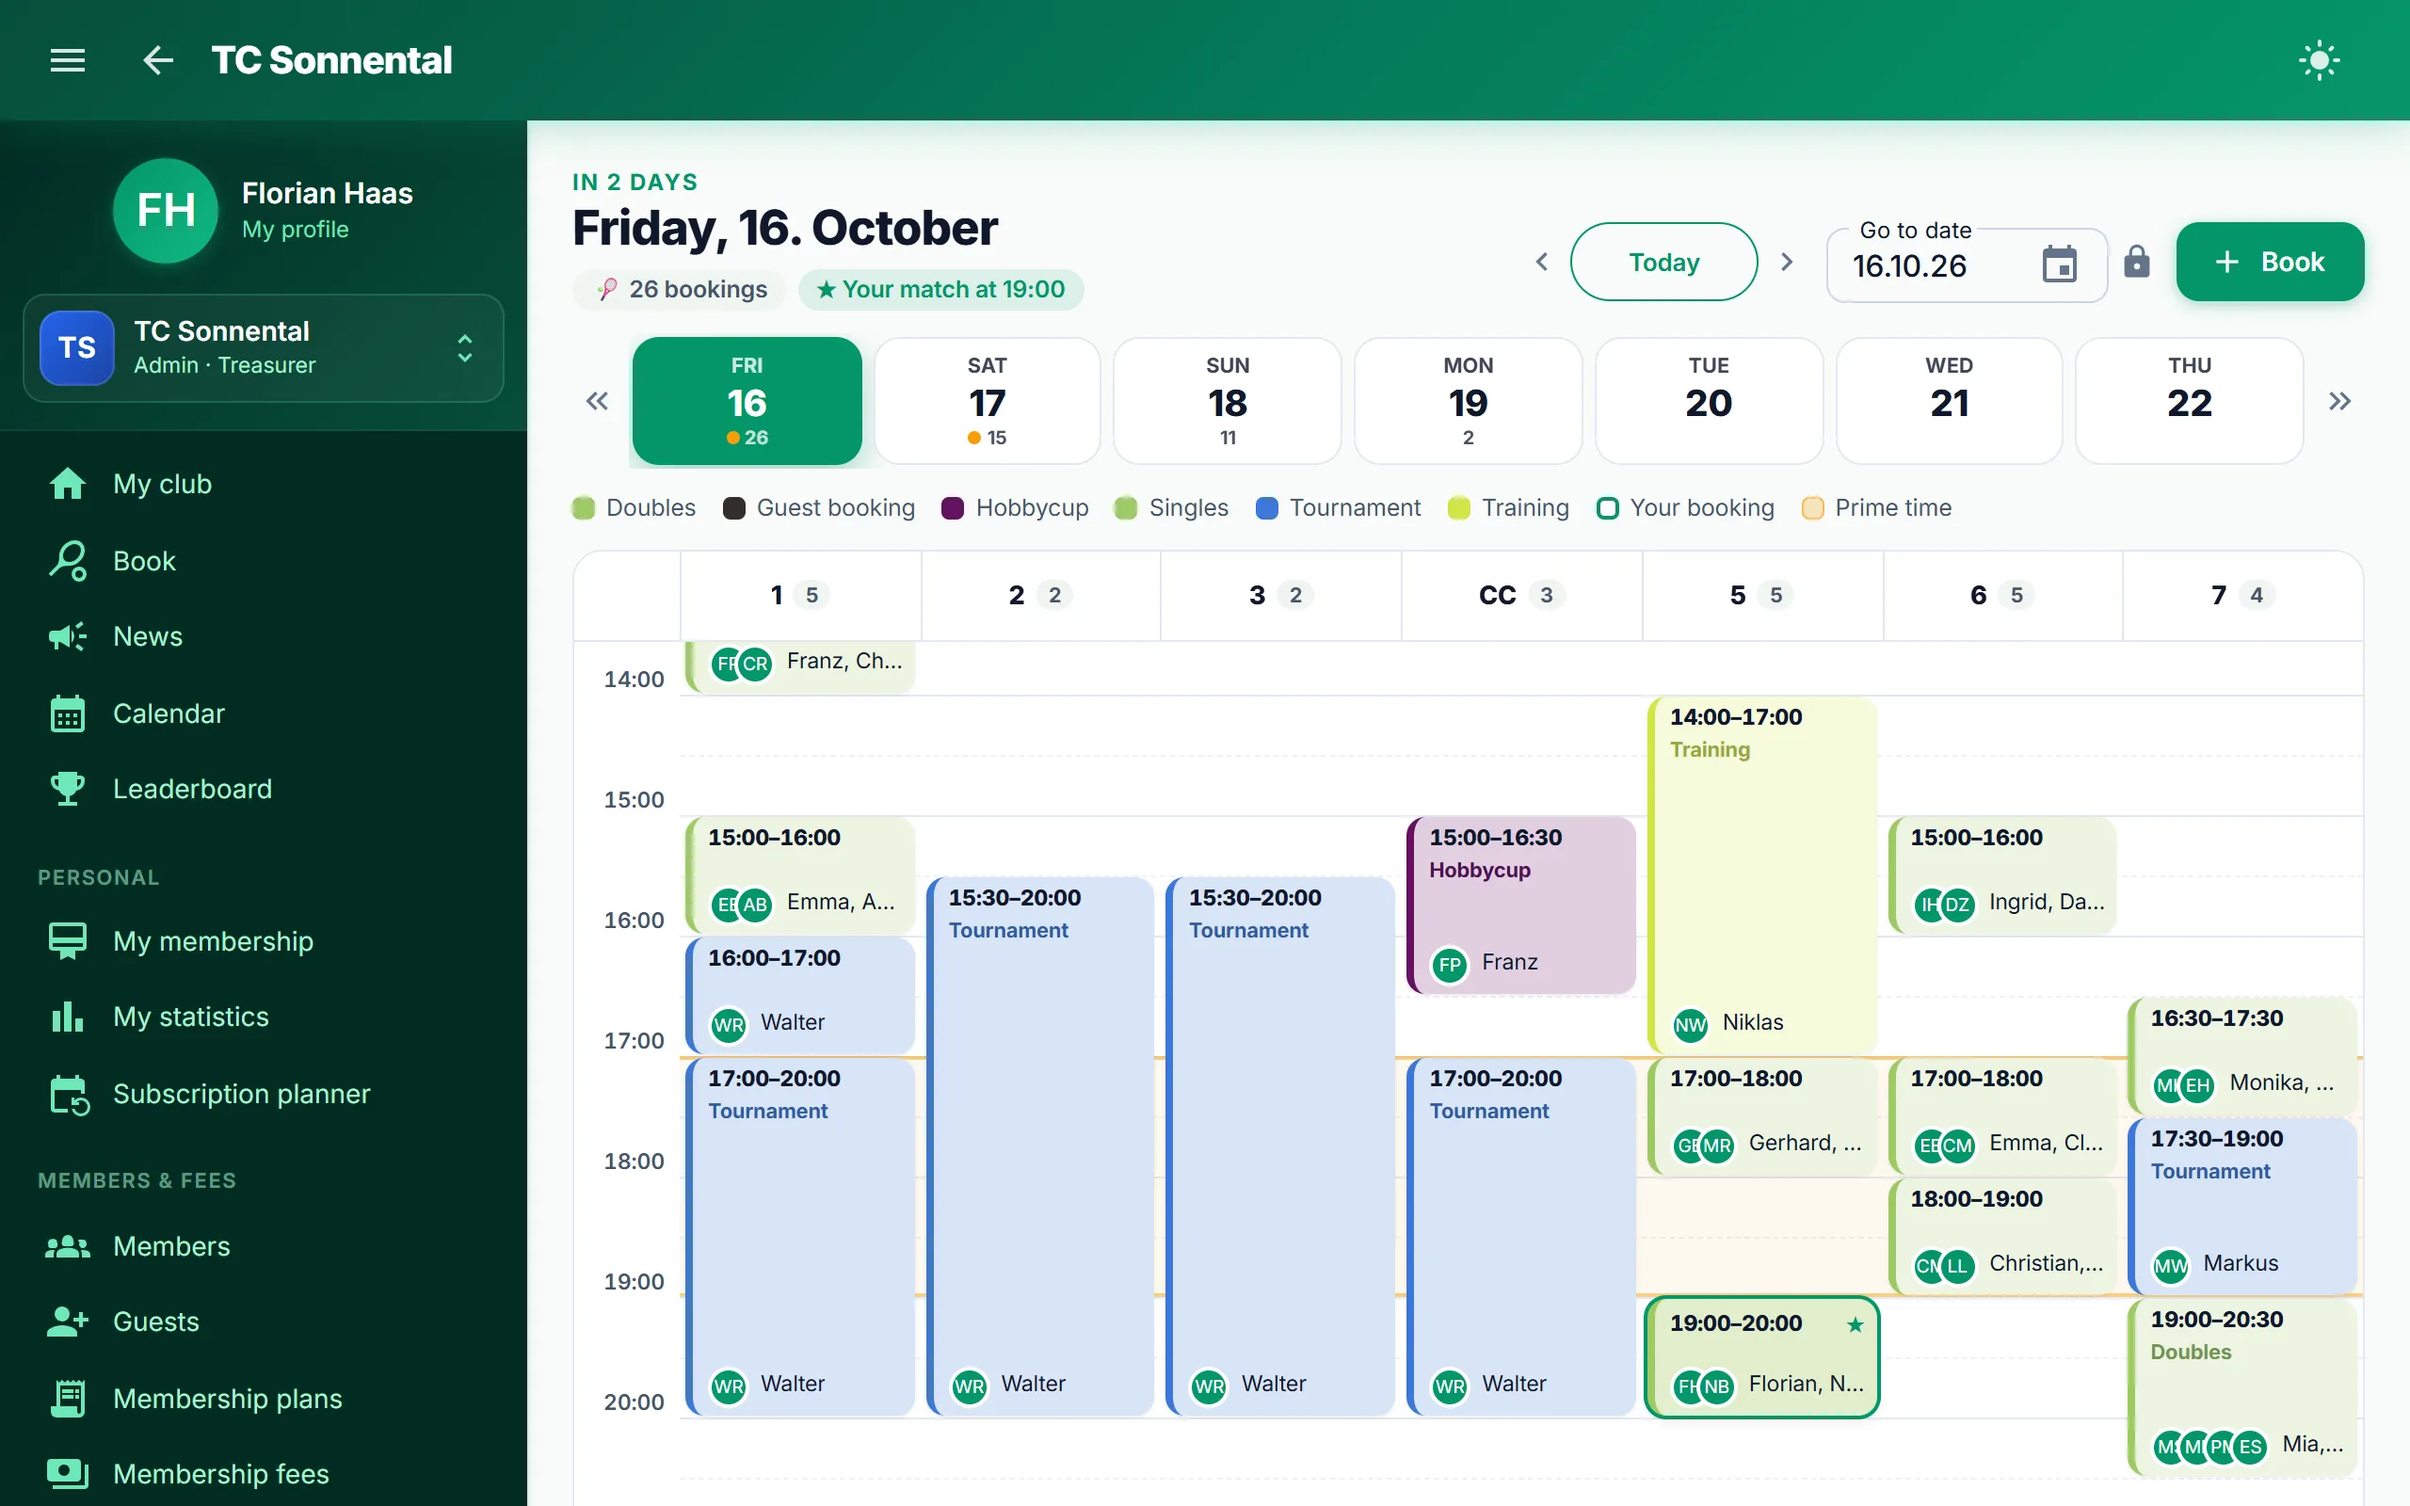
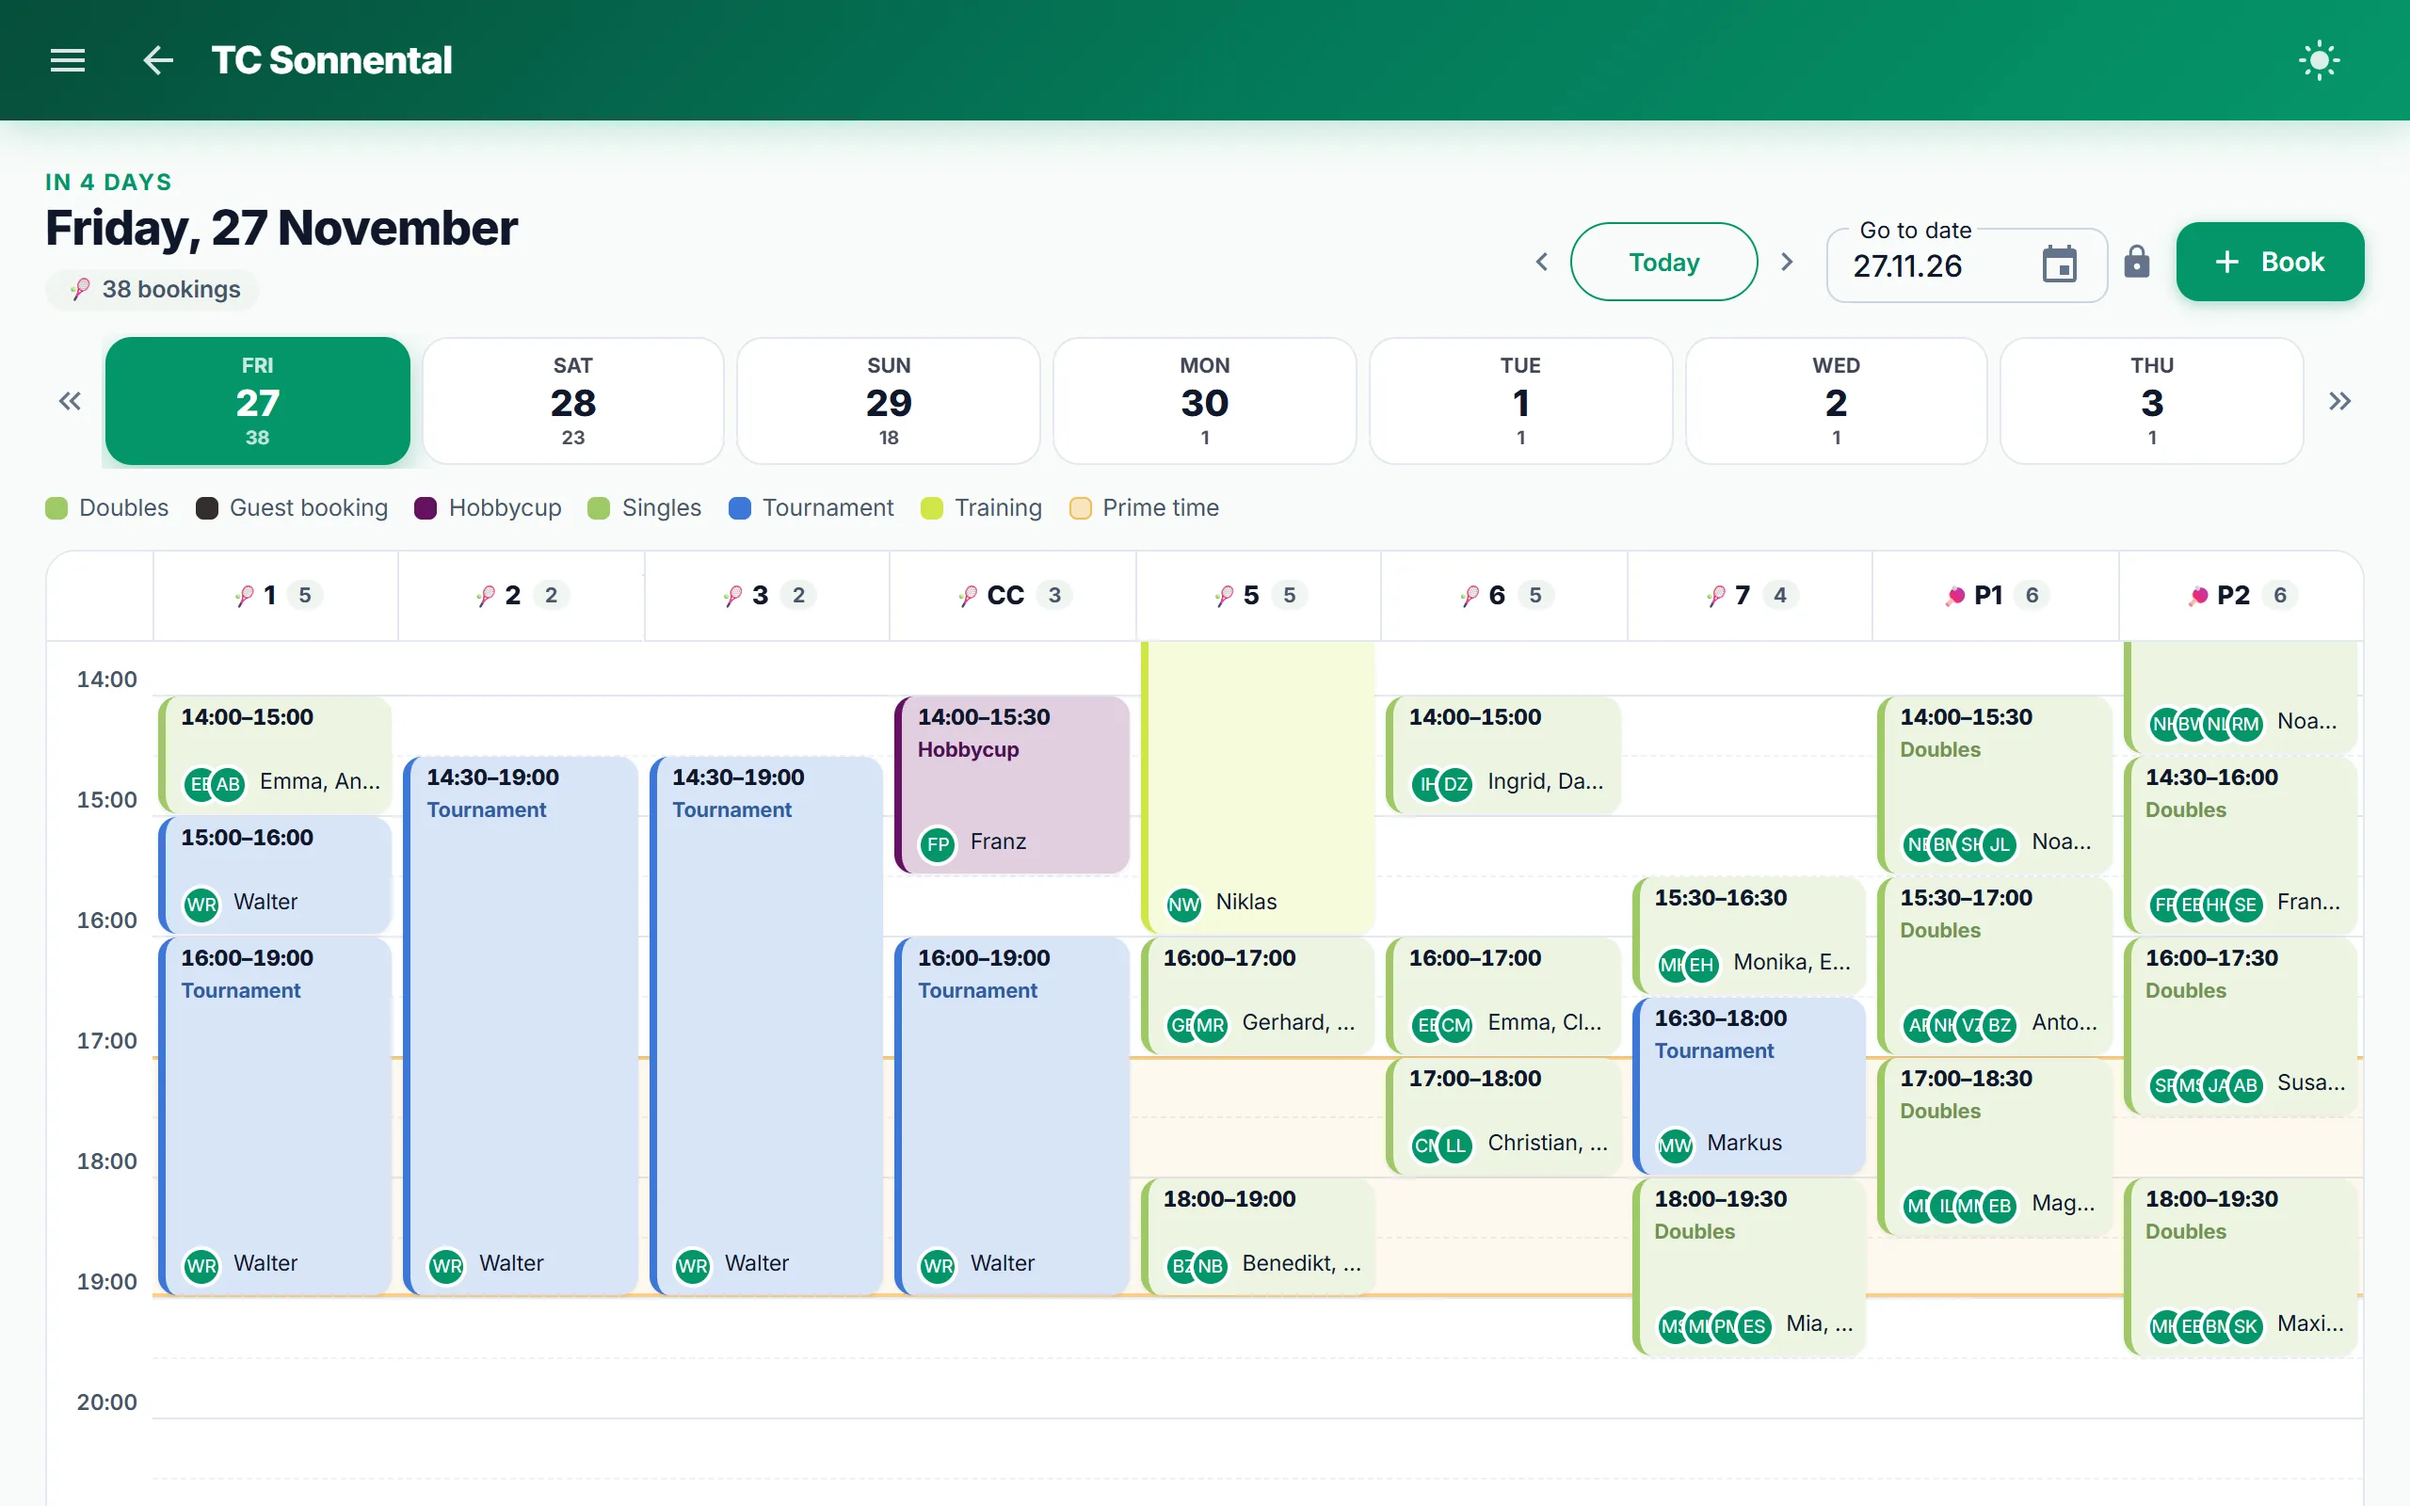
Padel courts on the landing page screenshots
The screenshot seed keeps two padel courts next to the seven tennis courts (named Padel 1 and 2, created when
the copied database has none) and puts doubles on them in the shown week, with players of older doubles. It
also stretches the latest season to today when none is running, which broke the seed after the season ended.
The desktop booking shot closes the menu so all nine courts fit, the phone shot scrolls to the padel courts.
New booking, phone booking and statistics shots in English and German, alt texts mention padel.

diff --git a/website/de/index.html b/website/de/index.html
@@ -132,7 +132,7 @@
                     <img class="shot__desktop" src="/screenshots/de/dashboard.webp" width="2560" height="1600" fetchpriority="high"
                          alt="Die Startseite eines Mitglieds in Clubnetz: Begrüßung, das nächste Spiel, Statistik der Saison und kommende Buchungen" />
                     <img class="shot__phone" src="/screenshots/de/phone-booking.webp" width="780" height="1688"
-                         alt="Der Buchungsplan am Handy mit den Buchungen aller Plätze eines Tages" />
+                         alt="Der Buchungsplan am Handy: die Tennisplätze 6 und 7 und Padel-Doppel auf den Plätzen P1 und P2" />
                 </figure>
             </div>
         </div>
@@ -172,7 +172,7 @@
                         </div>
                         <figure class="shot">
                             <img class="shot__desktop" src="/screenshots/de/booking.webp" width="2560" height="1600" loading="lazy"
-                                 alt="Buchungsplan eines Tages mit sieben Plätzen und Einzel-, Doppel-, Training- und Turnierbuchungen" />
+                                 alt="Buchungsplan eines Tages mit sieben Tennis- und zwei Padelplätzen und Einzel-, Doppel-, Training- und Turnierbuchungen" />
                             <img class="shot__phone" src="/screenshots/de/phone-calendar.webp" width="780" height="1688" loading="lazy"
                                  alt="Der Vereinskalender am Handy mit der Clubmeisterschaft und dem Saisonabschluss" />
                         </figure>
@@ -247,7 +247,7 @@
                         </div>
                         <figure class="shot">
                             <img class="shot__desktop" src="/screenshots/de/statistics.webp" width="2560" height="1600" loading="lazy"
-                                 alt="Vereinsstatistik der Saison: gespielte Stunden, Buchungen, aktive Spieler und Platzauslastung je Stunde" />
+                                 alt="Vereinsstatistik der Saison, nach Tennis und Padel filterbar: gespielte Stunden, Buchungen, aktive Spieler und Platzauslastung je Stunde" />
                             <img class="shot__phone" src="/screenshots/de/phone-trophies.webp" width="780" height="1688" loading="lazy"
                                  alt="Die Trophäenvitrine eines Mitglieds mit dem höchsten Abzeichen" />
                         </figure>

diff --git a/website/index.html b/website/index.html
@@ -132,7 +132,7 @@
                     <img class="shot__desktop" src="/screenshots/en/dashboard.webp" width="2560" height="1600" fetchpriority="high"
                          alt="The member's start page in Clubnetz: greeting, the next match, season statistics and upcoming bookings" />
                     <img class="shot__phone" src="/screenshots/en/phone-booking.webp" width="780" height="1688"
-                         alt="The booking grid on a phone, with the bookings of all courts for one day" />
+                         alt="The booking grid on a phone: tennis courts 6 and 7 and padel doubles on courts P1 and P2" />
                 </figure>
             </div>
         </div>
@@ -172,7 +172,7 @@
                         </div>
                         <figure class="shot">
                             <img class="shot__desktop" src="/screenshots/en/booking.webp" width="2560" height="1600" loading="lazy"
-                                 alt="Booking grid for one day with seven courts and singles, doubles, training and tournament bookings" />
+                                 alt="Booking grid for one day with seven tennis and two padel courts and singles, doubles, training and tournament bookings" />
                             <img class="shot__phone" src="/screenshots/en/phone-calendar.webp" width="780" height="1688" loading="lazy"
                                  alt="The club calendar on a phone with the club championship and the end-of-season barbecue" />
                         </figure>
@@ -247,7 +247,7 @@
                         </div>
                         <figure class="shot">
                             <img class="shot__desktop" src="/screenshots/en/statistics.webp" width="2560" height="1600" loading="lazy"
-                                 alt="Club statistics for the season: hours played, bookings, active players and court occupancy per hour" />
+                                 alt="Club statistics for the season, filterable by tennis and padel: hours played, bookings, active players and court occupancy per hour" />
                             <img class="shot__phone" src="/screenshots/en/phone-trophies.webp" width="780" height="1688" loading="lazy"
                                  alt="The trophy case of a member with the top badge" />
                         </figure>
